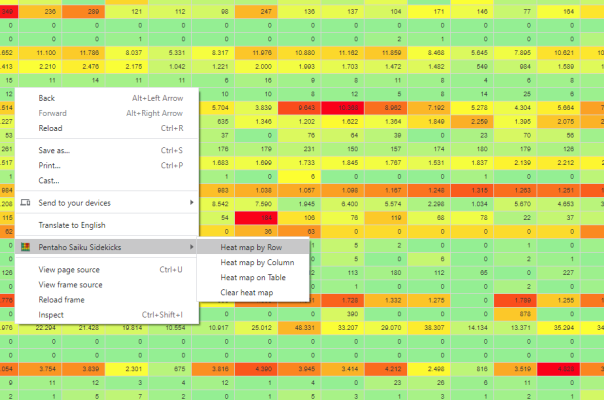
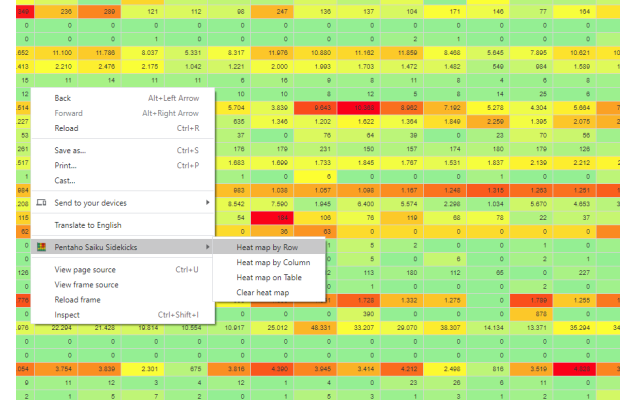
Set default heat map colors to green, yellow, red

diff --git a/heatmap.js b/heatmap.js
@@ -1,6 +1,6 @@
 // TODO: Export colored excel file: https://github.com/SheetJS/sheetjs/issues/1795
 const DEFAULT_OPERATION = "rowHeatMap";
-const DEFAULT_HEATMAP_COLORS = "white,red";
+const DEFAULT_HEATMAP_COLORS = "lightgreen,yellow,red";
 const DEFAULT_HEATMAP_STEPS = 256;
 var lastOperation = DEFAULT_OPERATION;
 

diff --git a/popup.js b/popup.js
@@ -1,4 +1,4 @@
-const DEFAULT_HEATMAP_COLORS = "white,red";
+const DEFAULT_HEATMAP_COLORS = "lightgreen,yellow,red";
 const DEFAULT_HEATMAP_STEPS = 256;
 const MAX_HEATMAP_STEPS = 256;
 
